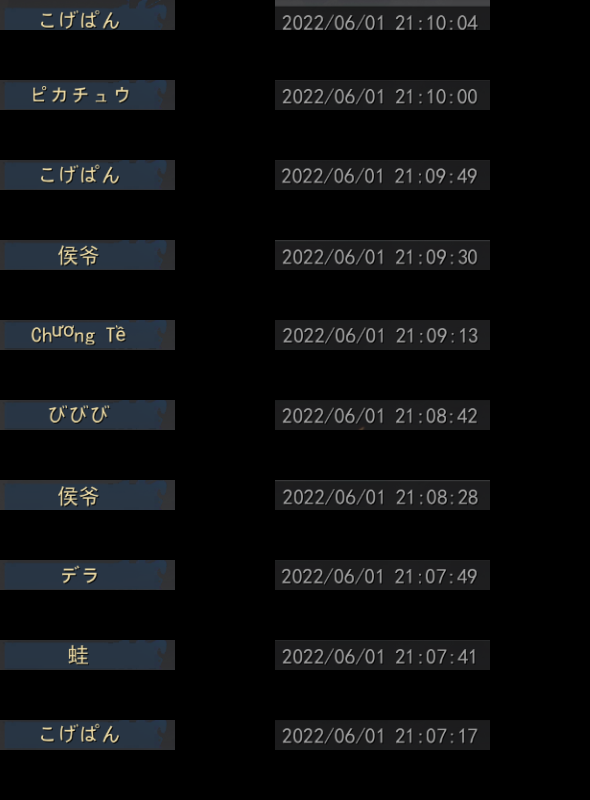
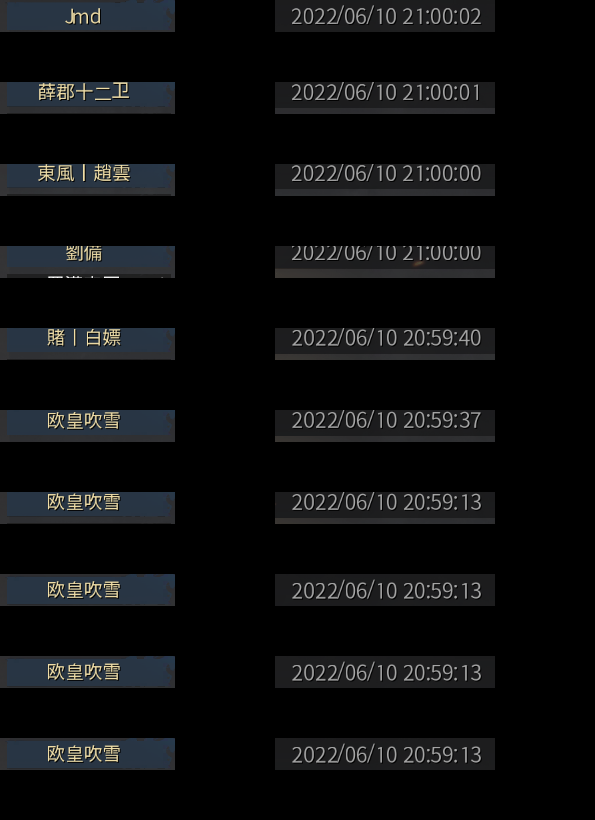
'fix'

diff --git a/siege/siege.py b/siege/siege.py
@@ -1,23 +1,39 @@
 from utils import ocr
 from utils import image
 from utils import operation
-from collections import Counter
 import pyautogui
 import time
 import pandas as pd
 
 
 def test():
+    # ocr 区域相对于标志物的偏移量、宽高
+    name_offset = (-790, -5, 175, 32)
+    time_offset = (-225, -53, 220, 32)
+    report_marker = pyautogui.locateOnScreen('./images/siege/report_marker.png', grayscale=False, confidence=.95)
+    name_pos = (report_marker.left + name_offset[0], report_marker.top + name_offset[1], name_offset[2], name_offset[3])
+    name_img = pyautogui.screenshot(region=name_pos)
+    time_pos = (report_marker.left + time_offset[0], report_marker.top + time_offset[1], time_offset[2], time_offset[3])
+    time_img = pyautogui.screenshot(region=time_pos)
+    ocr_blocks = list()
+    ocr_blocks.append(name_img)
+    ocr_blocks.append(time_img)
+    ocr_img = image.images_concat(ocr_blocks, 2)
+    ocr_img.save('./images/siege/test.png')
+
+
+def run():
+    # 雷电模拟器
     t0 = time.time()
-    siege_statistics('2022-06-02 21:00:00')
+    siege_statistics('2022-06-10 21:00:00')
     cost = time.time() - t0
     print('cost: {}s'.format(cost))
 
 
 def siege_statistics(start_time):
     # ocr 区域相对于标志物的偏移量、宽高
-    name_offset = (-770, -7, 175, 30)
-    time_offset = (-235, -55, 215, 30)
+    name_offset = (-790, -2, 175, 32)
+    time_offset = (-225, -50, 220, 32)
     # 最小时间
     time_min = time.strptime(start_time, '%Y-%m-%d %H:%M:%S')
     scroll_start_offset = (600, 600)
@@ -56,6 +72,14 @@ def siege_statistics(start_time):
             ocr_blocks = []
             time_over = False
             for i in range(10):
+                if txt[i * 2].startswith('202'):
+                    # 丢掉了一个 name
+                    txt.insert(i * 2, 'Unknown')
+                    err.append('No valid name')
+                    err_name.append(txt[i * 2])
+                    err_time.append(txt[i * 2 + 1])
+                    continue
+
                 t_txt = txt[i * 2 + 1].replace(' ', '')
                 try:
                     t = time.strptime(t_txt, '%Y/%m/%d%H:%M:%S')
@@ -64,7 +88,7 @@ def siege_statistics(start_time):
                     err_name.append(txt[i * 2])
                     err_time.append(txt[i * 2 + 1])
                     continue
-                if t > time_min:
+                if t >= time_min:
                     user_list.append(txt[i * 2])
                 else:
                     time_over = True

diff --git a/main.py b/main.py
@@ -1,5 +1,6 @@
 from siege import siege
 
 
-siege.test()
+# siege.test()
 
+siege.run()
